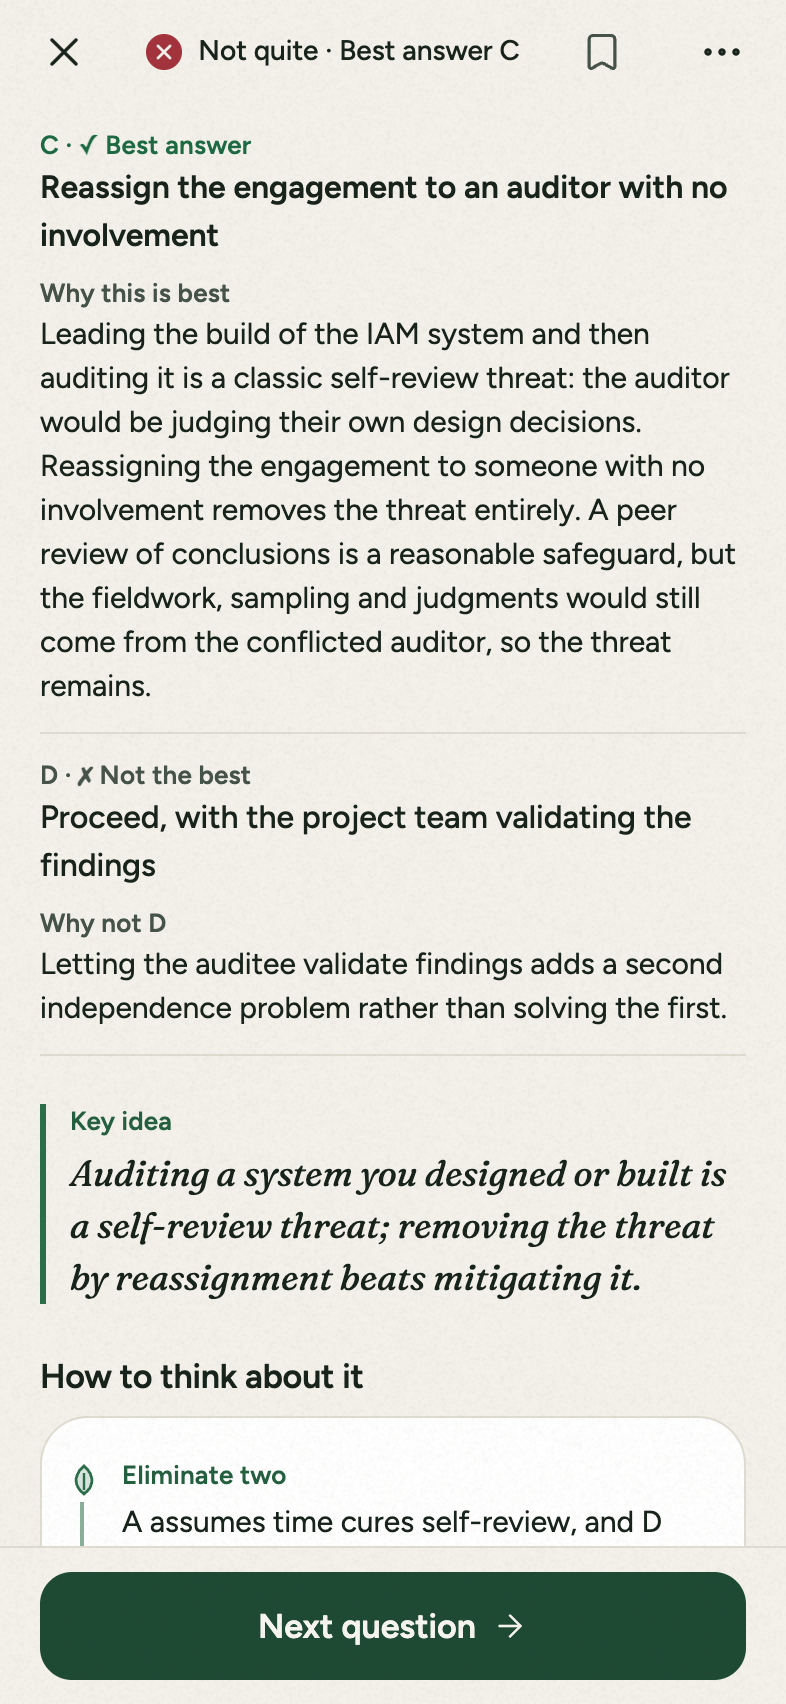
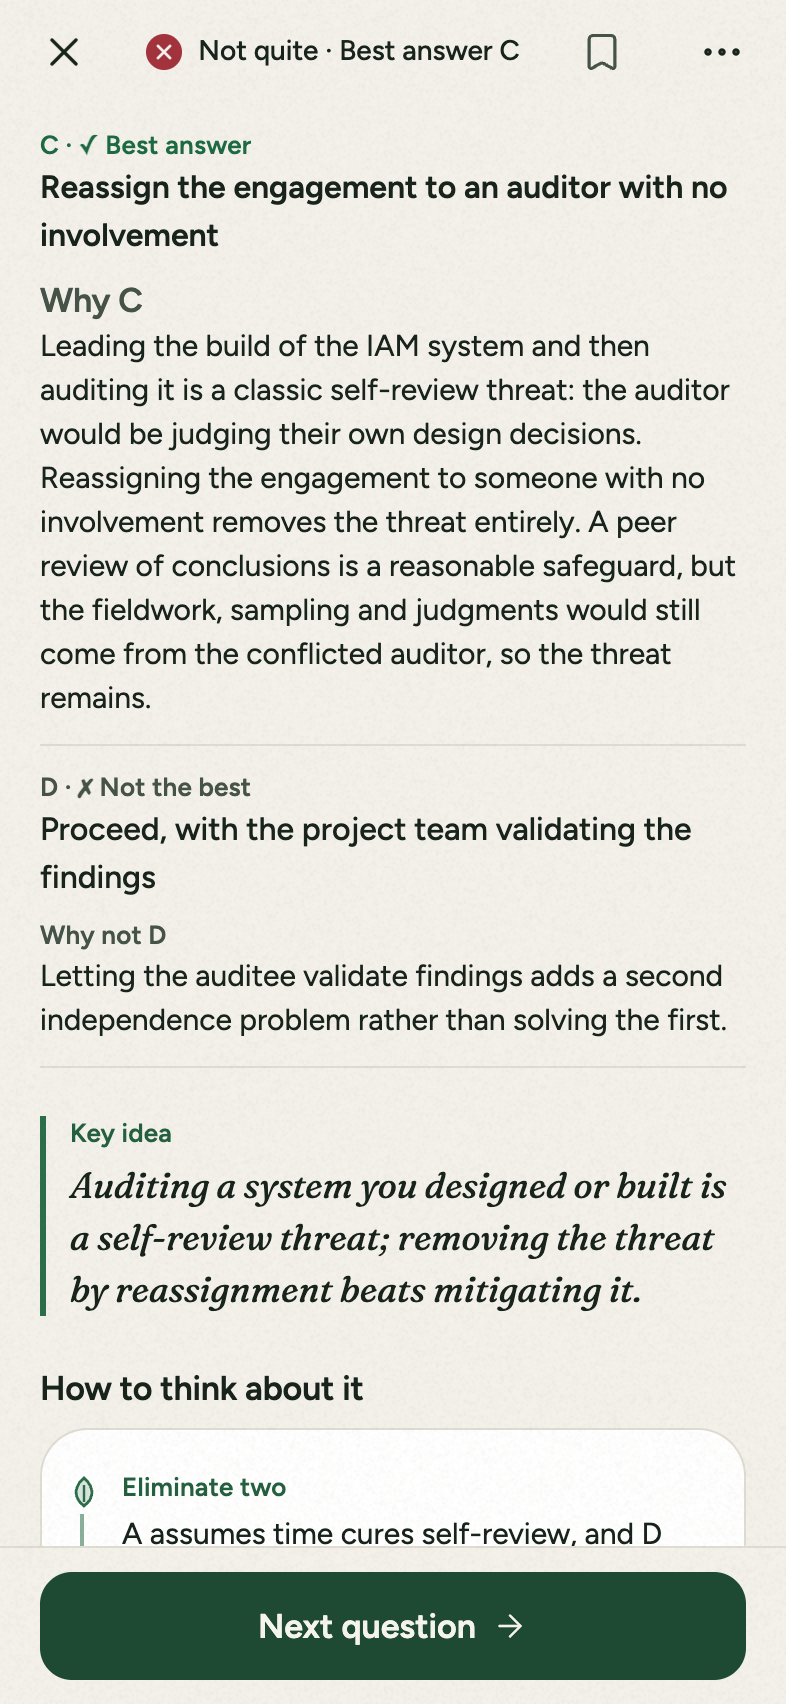
Keep each rationale once after independent answer-screen review

Changed region(s): [[0.0305, 0.1555, 0.9466, 0.6221], [0.0611, 0.6532, 0.916, 0.902]]

diff --git a/mobile/src/__tests__/mobile-143-answer.test.tsx b/mobile/src/__tests__/mobile-143-answer.test.tsx
@@ -111,47 +111,45 @@ const ruledOut = () => [...eliminateTipText.matchAll(/\{\{([A-D])\}\}/g)].map((m
 
 describe('the answer screen order (Grove Phase 4)', () => {
   // Owner answer O1 (5 Nov 2026): after a miss all three tips are open; only a long Why folds.
-  it('a miss on an option to rule out: card, Key idea, every tip in the written order, then Why', () => {
+  it('a miss on an option to rule out: card, complete comparison, Key idea, then every tip', () => {
     const { picked, best } = miss(ruledOut());
     const t = allText();
-    const order = ['Not quite', '✗ Your answer', '✓ Best answer', 'Compare all options', `Why not ${picked}`, 'Key idea', 'How to think about it', 'Eliminate two', 'Final two', 'Exam cue', `Why ${best}`].map((s) => t.indexOf(s));
+    const order = ['Not quite', '✗ Your answer', '✓ Best answer', 'Compare all options', 'Key idea', 'How to think about it', 'Eliminate two', 'Final two', 'Exam cue'].map((s) => t.indexOf(s));
     expect(order.every((i) => i >= 0)).toBe(true);
     expect([...order].sort((a, b) => a - b)).toEqual(order);
     // The fold holds only the paragraph, and says so.
-    expect(labelled(/^Read more of the explanation$/).length).toBeGreaterThan(0);
+    expect(labelled(/^Read more of the explanation$/)).toHaveLength(0);
+    expect(t).toContain(`Why not ${picked}`);
+    expect(t).toContain(`Why ${best}`);
     expect(labelled(/^Read more: /)).toHaveLength(0);
   });
 
-  it('a miss on the closest wrong choice: Eliminate two, Final two and the Exam cue are all open before the Why', () => {
+  it('a miss on the closest wrong choice: the full rationale precedes Eliminate two, Final two and Exam cue', () => {
     const { best } = miss(runnerUpOf());
     const t = allText();
     expect(t.indexOf('How to think about it')).toBeLessThan(t.indexOf('Eliminate two'));
     expect(t.indexOf('Eliminate two')).toBeLessThan(t.indexOf('Final two'));
     expect(t.indexOf('Final two')).toBeLessThan(t.indexOf('Exam cue'));
-    expect(t.indexOf('Exam cue')).toBeLessThan(t.indexOf(`Why ${best}`));
+    expect(t.indexOf('Exam cue')).toBeGreaterThan(t.indexOf(`Why ${best}`));
     // One tips card, no second card in a fold.
     expect(root().findAllByType(TipsCard)).toHaveLength(1);
   });
 
-  it('Read more opens only the rest of the Why; Show less folds it again; the tips never move', () => {
-    miss(runnerUpOf());
-    const before = allText();
-    pressStarting('Read more of the explanation');
-    // The whole explanation, no line limit.
-    expect(root().findAll((n) => n.props.numberOfLines === 2 && typeof n.props.children === 'string' && n.props.children.length > 150)).toHaveLength(0);
-    expect(labelled(/^Show less of the explanation$/).length).toBeGreaterThan(0);
-    pressStarting('Show less of the explanation');
-    expect(allText()).toBe(before);
+  it('all rationale text stays open with the tips', () => {
+    const { perm } = miss(runnerUpOf());
+    const full = renderText(rich.explanation, perm);
+    expect(allText().split(full)).toHaveLength(2);
+    expect(labelled(/^Read more of the explanation$/)).toHaveLength(0);
     expect(allText()).toContain('Eliminate two');
   });
 
-  it('a long Why is cut to two lines on screen only: the screen reader gets the whole text', () => {
-    miss(runnerUpOf());
-    const folded = root().findAll((n) => typeof n.type === 'string' && n.props.numberOfLines === 2 && typeof n.props.accessibilityLabel === 'string' && n.props.accessibilityLabel.length > 150);
-    expect(folded.length).toBeGreaterThan(0);
+  it('the screen reader gets the full inline rationale exactly once', () => {
+    const { best, perm } = miss(runnerUpOf());
+    const label = `Why ${best}: ${renderText(rich.explanation, perm)}`;
+    expect(root().findAll(n => typeof n.type === 'string' && n.props.accessibilityLabel === label)).toHaveLength(1);
   });
 
-  it('a right answer: every tip open in the written order, then the whole Why; nothing folds', () => {
+  it('a right answer: the full rationale and every tip are open; nothing folds', () => {
     startFromIds('cisa', [rich.id, other.id], 'T');
     act(() => {
       r = create(<SessionScreen />);
@@ -164,7 +162,7 @@ describe('the answer screen order (Grove Phase 4)', () => {
     });
     pressStarting('Check answer');
     const t = allText();
-    const order = ['Correct', '✓ Your answer · the best', 'Key idea', 'How to think about it', 'Eliminate two', 'Final two', 'Exam cue', `Why ${best}`].map((s) => t.indexOf(s));
+    const order = ['Correct', '✓ Your answer · the best', 'Key idea', 'How to think about it', 'Eliminate two', 'Final two', 'Exam cue'].map((s) => t.indexOf(s));
     expect(order.every((i) => i >= 0)).toBe(true);
     expect([...order].sort((a, b) => a - b)).toEqual(order);
     expect(labelled(/^Read more/)).toHaveLength(0);

diff --git a/mobile/src/__tests__/answer-screen-124.test.tsx b/mobile/src/__tests__/answer-screen-124.test.tsx
@@ -83,14 +83,6 @@ const press = (label: string) => {
     b.props.onPress();
   });
 };
-/** Press the first button whose spoken label starts with `prefix` ("Read more: the full explanation, …"). */
-const pressStarting = (prefix: string) => {
-  const b = root().findAll((n) => typeof n.props.accessibilityLabel === 'string' && n.props.accessibilityLabel.startsWith(prefix) && typeof n.props.onPress === 'function')[0];
-  if (!b) throw new Error(`no button starting "${prefix}"`);
-  act(() => {
-    b.props.onPress();
-  });
-};
 const optionCards = () => root().findAll((n) => n.props.letter !== undefined && n.props.state !== undefined && typeof n.props.text === 'string');
 /** Tap the first option whose ORIGINAL letter is right (or wrong). */
 function pickBy(right: boolean) {
@@ -132,20 +124,19 @@ describe('the answer screen after a miss', () => {
   };
 
   // Grove Phase 4 (PHASE4.md 4.2, owner answer O1): one order in every state, every tip open before the Why.
-  it('order: Not quite, your answer, best answer, Key idea, How to think about it, every tip, Why, then Read more', () => {
+  it('order: verdict, all options with rationale, Key idea, then every tip', () => {
     missRich();
     // Every tip is open before Read more is touched.
     for (const label of ['Eliminate two', 'Final two', 'Exam cue']) expect(allText()).toContain(label);
-    pressStarting('Read more');
     const t = allText();
     // "Why D" (the heading), not the pick's own "Why not B" note under its row (mobile 1.43).
     const why = t.search(/Why [A-D]\b/);
-    const order = [t.indexOf('Not quite'), t.indexOf('✗ Your answer'), t.indexOf('✓ Best answer'), t.indexOf('Key idea'), t.indexOf('How to think about it'), why, t.indexOf('Show less')];
+    const order = [t.indexOf('Not quite'), t.indexOf('✗ Your answer'), t.indexOf('✓ Best answer'), t.indexOf('Compare all options'), why, t.indexOf('Key idea'), t.indexOf('How to think about it')];
     expect(order.every((i) => i >= 0)).toBe(true);
     expect([...order].sort((a, b) => a - b)).toEqual(order);
     // Every tip is on screen once the fold is open, and the Exam cue is above the Why.
     for (const label of ['Eliminate two', 'Final two', 'Exam cue']) expect(t).toContain(label);
-    expect(t.indexOf('Exam cue')).toBeLessThan(why);
+    expect(t.indexOf('Exam cue')).toBeGreaterThan(why);
   });
 
   // Grove Phase 4 (PHASE4 4.2 step 4, 4.3): the "Your pick, B" chip, on ORIGINAL letters, shown in DISPLAY letters.
@@ -207,23 +198,20 @@ describe('the answer screen after a miss', () => {
     });
   });
 
-  it('a right answer: Key idea and the tips first, then the whole Why; nothing folds', () => {
+  it('a right answer: full comparison first, then Key idea and tips; nothing folds', () => {
     startFromIds('cisa', [rich.id, ...others.map((o) => o.id)], 'T');
     mount(<SessionScreen />);
     pickBy(true);
     press('Check answer');
     const t = allText();
     expect(t.indexOf('Key idea')).toBeGreaterThan(-1);
-    expect(t.indexOf('Key idea')).toBeLessThan(t.search(/Why [A-D]\b/));
+    expect(t.indexOf('Key idea')).toBeGreaterThan(t.search(/Why [A-D]\b/));
     expect(t).not.toContain('Read more');
   });
 
-  it('the long Why is folded to two lines with Read more, and opens in place', () => {
+  it('the complete rationale is available inline without a fold', () => {
     missRich();
-    const why = root().findAll((n) => n.props.numberOfLines === 2 && typeof n.props.children === 'string' && n.props.children.length > 150);
-    expect(why.length).toBeGreaterThan(0);
-    pressStarting('Read more');
-    expect(root().findAll((n) => typeof n.props.accessibilityLabel === 'string' && n.props.accessibilityLabel.startsWith('Show less') && typeof n.props.onPress === 'function').length).toBeGreaterThan(0);
+    expect(allText()).not.toContain('Read more of the explanation');
     expect(root().findAll((n) => n.props.numberOfLines === 2 && typeof n.props.children === 'string' && n.props.children.length > 150)).toHaveLength(0);
   });
 

diff --git a/mobile/src/__tests__/premium-r2-answer.test.tsx b/mobile/src/__tests__/premium-r2-answer.test.tsx
@@ -22,7 +22,7 @@ import { originalToDisplay } from '../engine/shuffle';
 import { useProgress } from '../store/progress';
 import { useSession } from '../store/session';
 import SessionScreen from '../app/session';
-import { AnswerPlate, FEEDBACK_DELAY, PLATE_ROW_STAGGER, Rise, StemRecap, StickyFooter, Verdict, VINE_ARRIVES, DISC_ABOVE_FROM, WhyBlock, KeyIdea, TipsCard } from '../components/quiz';
+import { AnswerContext, AnswerPlate, FEEDBACK_DELAY, PLATE_ROW_STAGGER, Rise, StemRecap, StickyFooter, Verdict, VINE_ARRIVES, DISC_ABOVE_FROM, WhyBlock, KeyIdea, TipsCard } from '../components/quiz';
 import type { Letter } from '../content/types';
 import { finalTwoLine, pickCoachKind, ruleOutLine } from '../engine/pickCoach';
 import { SLIP_LINE } from '../engine/slipCoach';
@@ -190,13 +190,13 @@ describe('after a right answer', () => {
   });
 
   // Grove Phase 4 (4.2): one order in every state, so a right answer reads Key idea, the tips, then Why.
-  it('Key idea, then every tip in one card, then the whole Why', () => {
+  it('Full comparison, then Key idea and every tip in one card', () => {
     answer(true);
     // Tree order is reading order.
     const order = root()
-      .findAll((n) => n.type === WhyBlock || n.type === KeyIdea || n.type === TipsCard)
-      .map((n) => (n.type === WhyBlock ? 'why' : n.type === KeyIdea ? 'key' : 'tips'));
-    expect(order).toEqual(['key', 'tips', 'why']);
+      .findAll((n) => n.type === AnswerContext || n.type === KeyIdea || n.type === TipsCard)
+      .map((n) => (n.type === AnswerContext ? 'context' : n.type === KeyIdea ? 'key' : 'tips'));
+    expect(order).toEqual(['context', 'key', 'tips']);
     const tips = root().findAllByType(TipsCard)[0];
     expect(tips.props.rows.map((t: { label: string }) => t.label)).toEqual(['Eliminate two', 'Final two', 'Exam cue']);
     // Both live in the one feedback-vine view that carries the vine's timing (one tick).
@@ -206,25 +206,23 @@ describe('after a right answer', () => {
   });
 
   // Owner answer O1: after a miss the same order and the same one tips card, every tip open.
-  it('after a miss: Key idea, every tip in one card, then the Why; the fold holds nothing else', () => {
+  it('after a miss: full comparison, Key idea, then every tip; no duplicate rationale', () => {
     answer(false);
     const order = root()
-      .findAll((n) => n.type === WhyBlock || n.type === KeyIdea || n.type === TipsCard)
-      .map((n) => (n.type === WhyBlock ? 'why' : n.type === KeyIdea ? 'key' : 'tips'));
-    expect(order).toEqual(['key', 'tips', 'why']);
+      .findAll((n) => n.type === AnswerContext || n.type === KeyIdea || n.type === TipsCard)
+      .map((n) => (n.type === AnswerContext ? 'context' : n.type === KeyIdea ? 'key' : 'tips'));
+    expect(order).toEqual(['context', 'key', 'tips']);
     expect(root().findAllByType(TipsCard)[0].props.rows.map((t: { label: string }) => t.label)).toEqual(['Eliminate two', 'Final two', 'Exam cue']);
-    const why = root().findByType(WhyBlock);
-    expect(why.props.more).toEqual([]);
-    expect(why.props.children).toBeUndefined();
+    expect(root().findAllByType(WhyBlock)).toHaveLength(0);
   });
 
   // PHASE4.md 4.4: the blocks after the card fade in reading order, opacity only, 30 ms apart.
-  it('Key idea with the tips, then the Why: opacity only, 30 ms apart', () => {
+  it('Key idea and tips arrive together with opacity only', () => {
     answer(false);
     const rises = root().findAllByType(Rise);
-    expect(rises).toHaveLength(2);
-    expect(rises.map((n) => n.props.rise)).toEqual([false, false]);
-    expect(rises[1].props.delay - rises[0].props.delay).toBe(PLATE_ROW_STAGGER);
+    expect(rises).toHaveLength(1);
+    expect(rises.map((n) => n.props.rise)).toEqual([false]);
+    expect(rises[0].props.delay).toBe(FEEDBACK_DELAY.why);
   });
 });
 

diff --git a/mobile/src/app/session.tsx b/mobile/src/app/session.tsx
@@ -94,7 +94,6 @@ import {
   ConfidenceRow,
   FEEDBACK_DELAY,
   OptionCard,
-  PLATE_ROW_STAGGER,
   VINE_ARRIVES,
   Rise,
   ScenarioBlock,
@@ -105,7 +104,6 @@ import {
   TipsHeading,
   useVerdictIndent,
   Verdict,
-  WhyBlock,
   type MoreRow,
   type OptionState,
 } from '../components/quiz';
@@ -1052,11 +1050,7 @@ export default function SessionScreen() {
                 {response.assisted && response.correct && <T v="meta" style={{ marginTop: space.xs, marginLeft: verdictIndent }}>{HINT_AFTER_LINE}</T>}
                 {/* A right retest (under 4 hours after a miss) is not promoted: say when it is back. */}
                 {response.retest && response.correct && <T v="meta" style={{ marginTop: space.xs, marginLeft: verdictIndent }}>{RETEST_LINE}</T>}
-                {/* Grove Phase 4 (PHASE4.md 4.2, owner answer O1): one order in every state. The card (your
-                    answer, "Why not B", the best answer), then Key idea, then "How to think about it" with
-                    every tip open, then "Why D". After a miss a long Why folds to two lines, and "Read more"
-                    opens only the rest of that paragraph. DISPLAY letters on screen and in every spoken
-                    label; the options are looked up by their ORIGINAL letters. */}
+                {/* Keep the verdict compact; each option rationale appears once in the comparison below. */}
                 <AnswerPlate
                   key={`${qid}:plate`}
                   delay={FEEDBACK_DELAY.rows}
@@ -1068,7 +1062,7 @@ export default function SessionScreen() {
                   best={{ letter: correctDisplay, text: q.options[q.correct] ?? '' }}
                 />
                 <AnswerContext question={q} perm={perm} picked={response.display} />
-                {/* Key idea and every tip, then the Why, arrive in reading order after the card: opacity only,
+                {/* Key idea and every tip arrive after the complete option comparison: opacity only,
                     200ms each, 30ms apart (PHASE4.md 4.4). Their arrival is still the vine's (VINE_ARRIVES):
                     `visible`, the one tick and the stem's draw wait for it. */}
                 <Rise delay={FEEDBACK_DELAY.why} rise={false}>
@@ -1077,17 +1071,6 @@ export default function SessionScreen() {
                     {tipRows.open.length > 0 && <TipsHeading />}
                     <TipsCard key={`${qid}:tips`} rows={tipRows.open.map(tipRow)} visible={vineVisible} />
                   </View>
-                </Rise>
-                <Rise delay={FEEDBACK_DELAY.why + PLATE_ROW_STAGGER} rise={false}>
-                  {/* O1: the fold holds the long Why paragraph and nothing else ("Read more of the explanation"). */}
-                  <WhyBlock
-                    key={qid}
-                    letter={correctDisplay}
-                    text={renderText(q.explanation, perm)}
-                    // After a right answer nothing folds (4.2 step 5).
-                    fold={!response.correct}
-                    more={[]}
-                  />
                 </Rise>
                 {/* Mobile 1.49 (premium pass §2.2): ONE "Go deeper" row after a miss, after a hairline.
                     The lesson when it is not done yet (Play = lessons), otherwise the note (BookOpen =

diff --git a/mobile/src/app/results.tsx b/mobile/src/app/results.tsx
@@ -211,8 +211,7 @@ const ReviewRow = memo(function ReviewRow({
       </Pressable>
       {open && (
         <View style={{ paddingBottom: space.lg }}>
-          {/* The same rows as the answer screen (mobile 1.43): the DISPLAY letter in each badge and spoken
-              label, and the pick's own note under its red row. */}
+          {/* Compact verdict first, then every option and its rationale in saved display order. */}
           {r && !r.correct && picked && (
             <>
               <OptionCard
@@ -234,8 +233,6 @@ const ReviewRow = memo(function ReviewRow({
             spoken={`Best answer, ${correctDisplay}: ${q.options[q.correct] ?? ''}`}
           />
           <AnswerContext question={q} perm={perm} picked={r?.display} />
-          <T v="headline">{`Why ${correctDisplay}`}</T>
-          <T v="body" style={{ marginBottom: space.sm }}>{renderText(q.explanation, perm)}</T>
           {trapTip(q) !== '' && (
             <T v="small" color={c.ink2}>
               {trapTip(q).startsWith('Final two:') ? '' : 'Trap: '}

diff --git a/mobile/src/__tests__/feedback-answer-context.test.tsx b/mobile/src/__tests__/feedback-answer-context.test.tsx
@@ -40,6 +40,12 @@ it.each(['A', 'B', 'C', 'D', undefined] as const)('keeps reported shuffled wordi
   expect(rows.map(n => n.props.testID)).toEqual(['answer-context-A', 'answer-context-B', 'answer-context-C', 'answer-context-D']);
   rows.forEach((row, i) => {
     const original = perm[i];
+    const letter = ['A', 'B', 'C', 'D'][i];
+    const best = original === q.correct;
+    const caption = best ? (letter === picked ? 'Your answer · the best' : 'Best answer') : letter === picked ? 'Your answer · not the best' : 'Not the best';
+    const spoken = `${letter}, ${caption}: ${q.options[original]}`;
+    expect(row.findAll(n => typeof n.type === 'string' && n.props.accessibilityLabel === spoken)).toHaveLength(1);
+    expect(textOf(row)).toContain(`${letter} · ${best ? '✓' : '✗'} ${caption}`);
     expect(textOf(row)).toContain(q.options[original]);
     expect(textOf(row)).toContain(renderText(original === q.correct ? q.explanation : q.wrongExplanations[original], perm));
     expect(textOf(row)).not.toMatch(/\{\{[A-D]\}\}/);

diff --git a/mobile/src/components/quiz.tsx b/mobile/src/components/quiz.tsx
@@ -1042,7 +1042,7 @@ export function AnswerContext({ question, perm, picked }: { question: PackQuesti
             </View>
             {why ? (
               <View accessible accessibilityLabel={`${best ? 'Why' : 'Why not'} ${letter}: ${why}`} style={{ marginTop: space.sm }}>
-                <T v="caption" color={c.ink2}>{best ? 'Why this is best' : `Why not ${letter}`}</T>
+                <T v={best ? "headline" : "caption"} accessibilityRole={best ? "header" : undefined} color={c.ink2}>{`${best ? 'Why' : 'Why not'} ${letter}`}</T>
                 <T v="small">{why}</T>
               </View>
             ) : null}

diff --git a/design-notes/fb001/README.md b/design-notes/fb001/README.md
@@ -1,6 +1,6 @@
 # FB-001 answer-context review
 
-Development branch only; not shipped. The compact verdict stays first, followed by all options in the saved display order, full wording and each option's explanation. The wrong-pick explanation is no longer repeated in the compact verdict. Practice and Results use the same comparison component. Active mocks and unchecked practice answers cannot mount it.
+Development branch only; not shipped. The compact verdict stays first, followed by all options in the saved display order, full wording and each option's explanation. No option rationale is repeated: the compact verdict has wording only, and the old standalone best-answer explanation has been removed. Practice and Results use the same comparison component. Active mocks and unchecked practice answers cannot mount it.
 
 ## Visual evidence
 
@@ -15,10 +15,14 @@ Reproduce with `SHOTS=fb001 SHOT_QUESTIONS=d1_002,d1_010 npm run shots`. Use an 
 ## Checks
 
 - TypeScript and Expo lint: passed.
-- Focused answer/review regressions: 8 suites, 116 tests passed, including 7 new FB-001 cases.
+- Focused answer/review regressions after independent review fixes: 9 suites, 128 tests passed, including 7 new FB-001 cases with caption and spoken-label checks.
 - Repository health: passed.
 - Final offline Android export: passed; nothing deployed or submitted.
 - Full serial mobile test run: 346/350 suites passed, 7,194 passed tests, 4 failures and 2 skips. Two legacy UI assertions were updated for the intentional new layout/release ordering; those and the timed-out backup restore passed a serial rerun (4 suites, 47 tests) with a 30-second timeout. The remaining badge-art generated-file mismatch was reproduced using unchanged parent-commit files. The full aggregate gate is not green and was not rerun in full after the assertion updates.
 - Native emulator, TalkBack and device 200% text: not run for this branch.
 
 Human review/merge required: this touches core answer/review presentation. No grading, shuffle, saved progress, content bank, cloud flag or entitlement logic changed.
+
+## Independent review
+
+The independent correctness/mobile UX/QA/security reviewer found no blocking issue. Their three minor findings were fixed: duplicate best-answer rationale, missing caption assertions, and stale reading-order comments. They approved the revised implementation by inspection. Final-code full-suite and CI checks are tracked on PR #235; do not infer a clean aggregate pass from focused tests.
